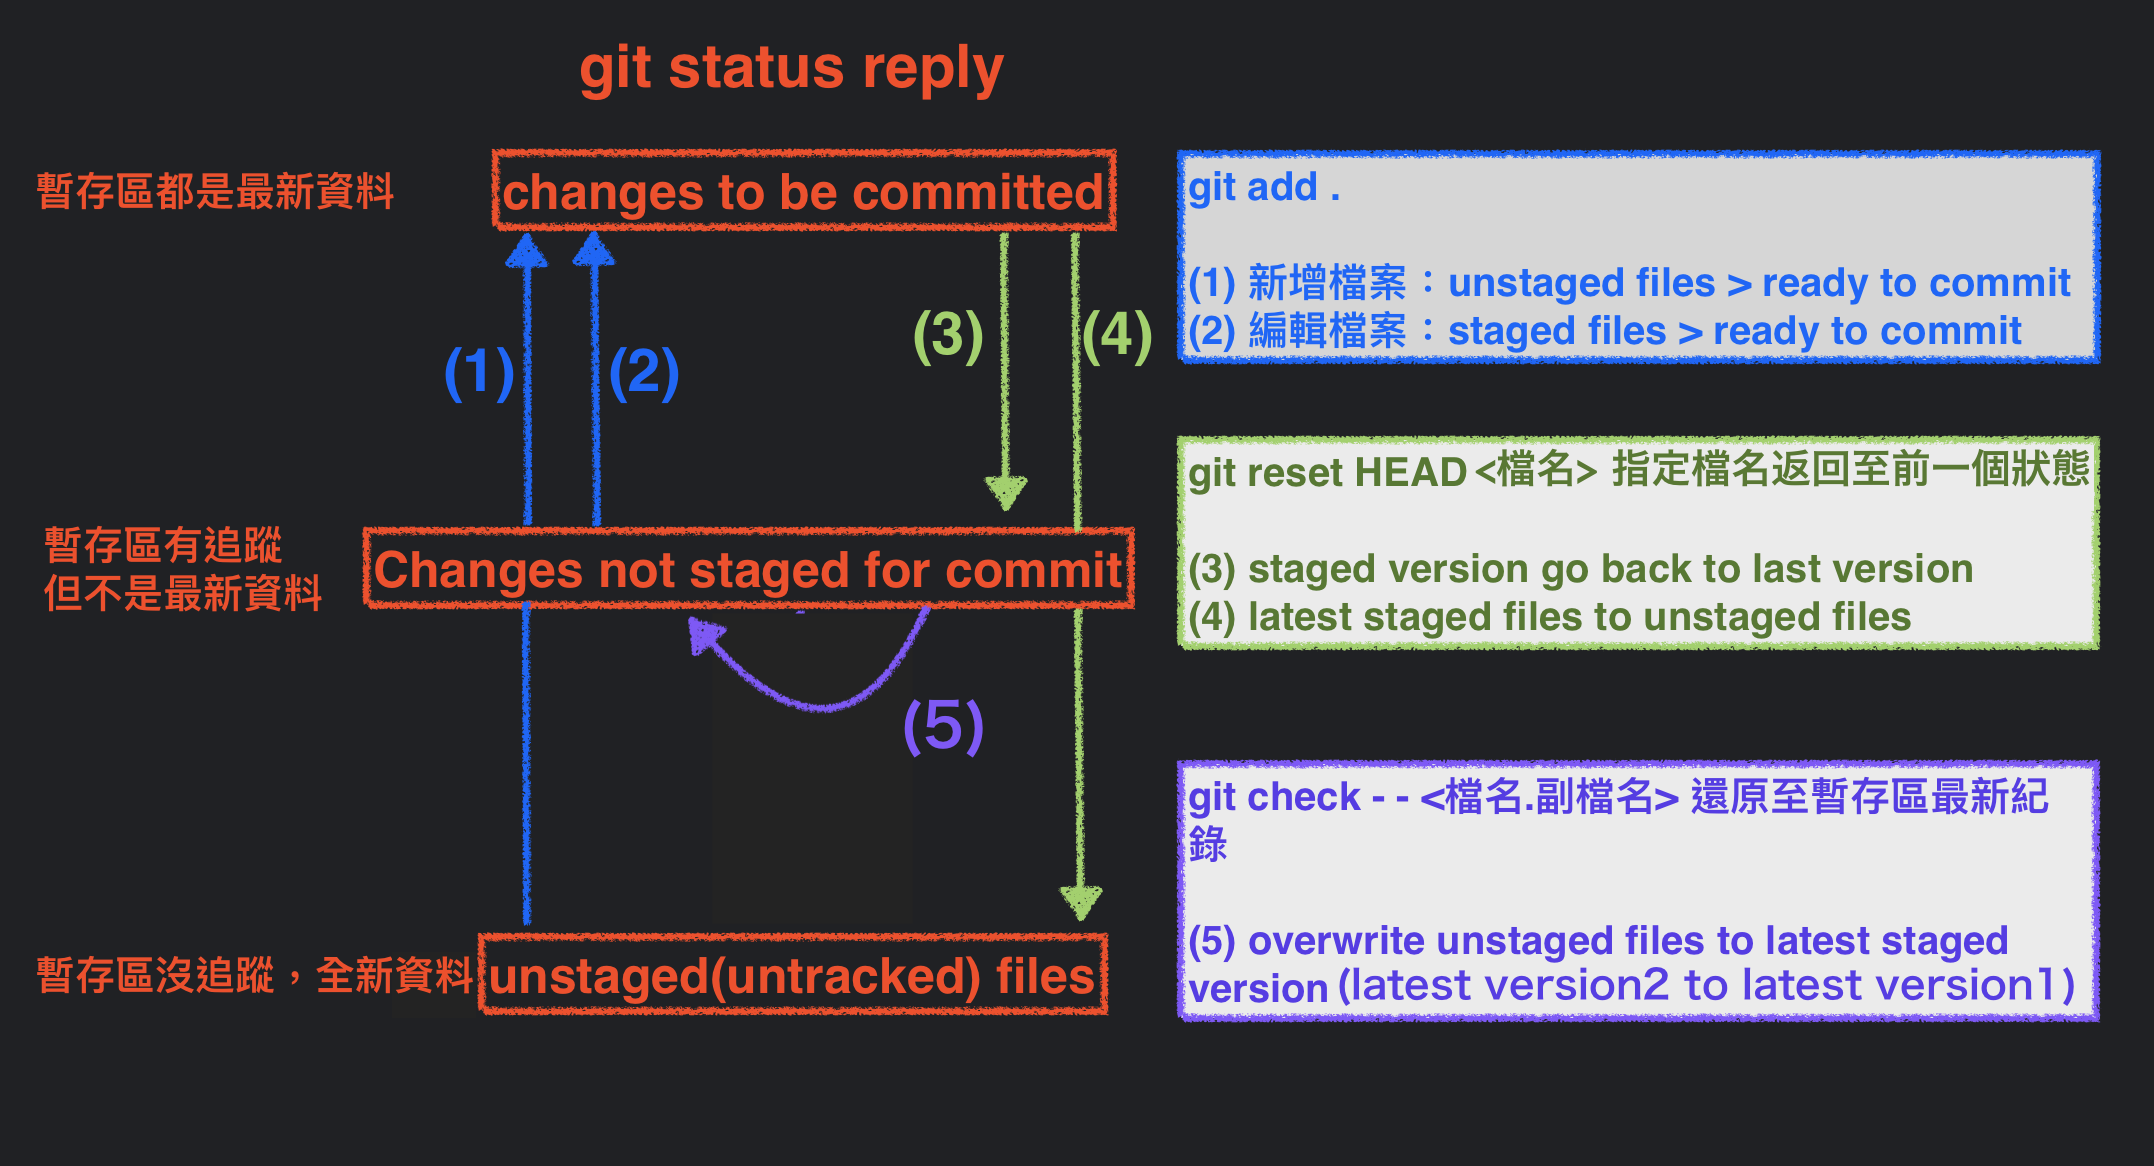
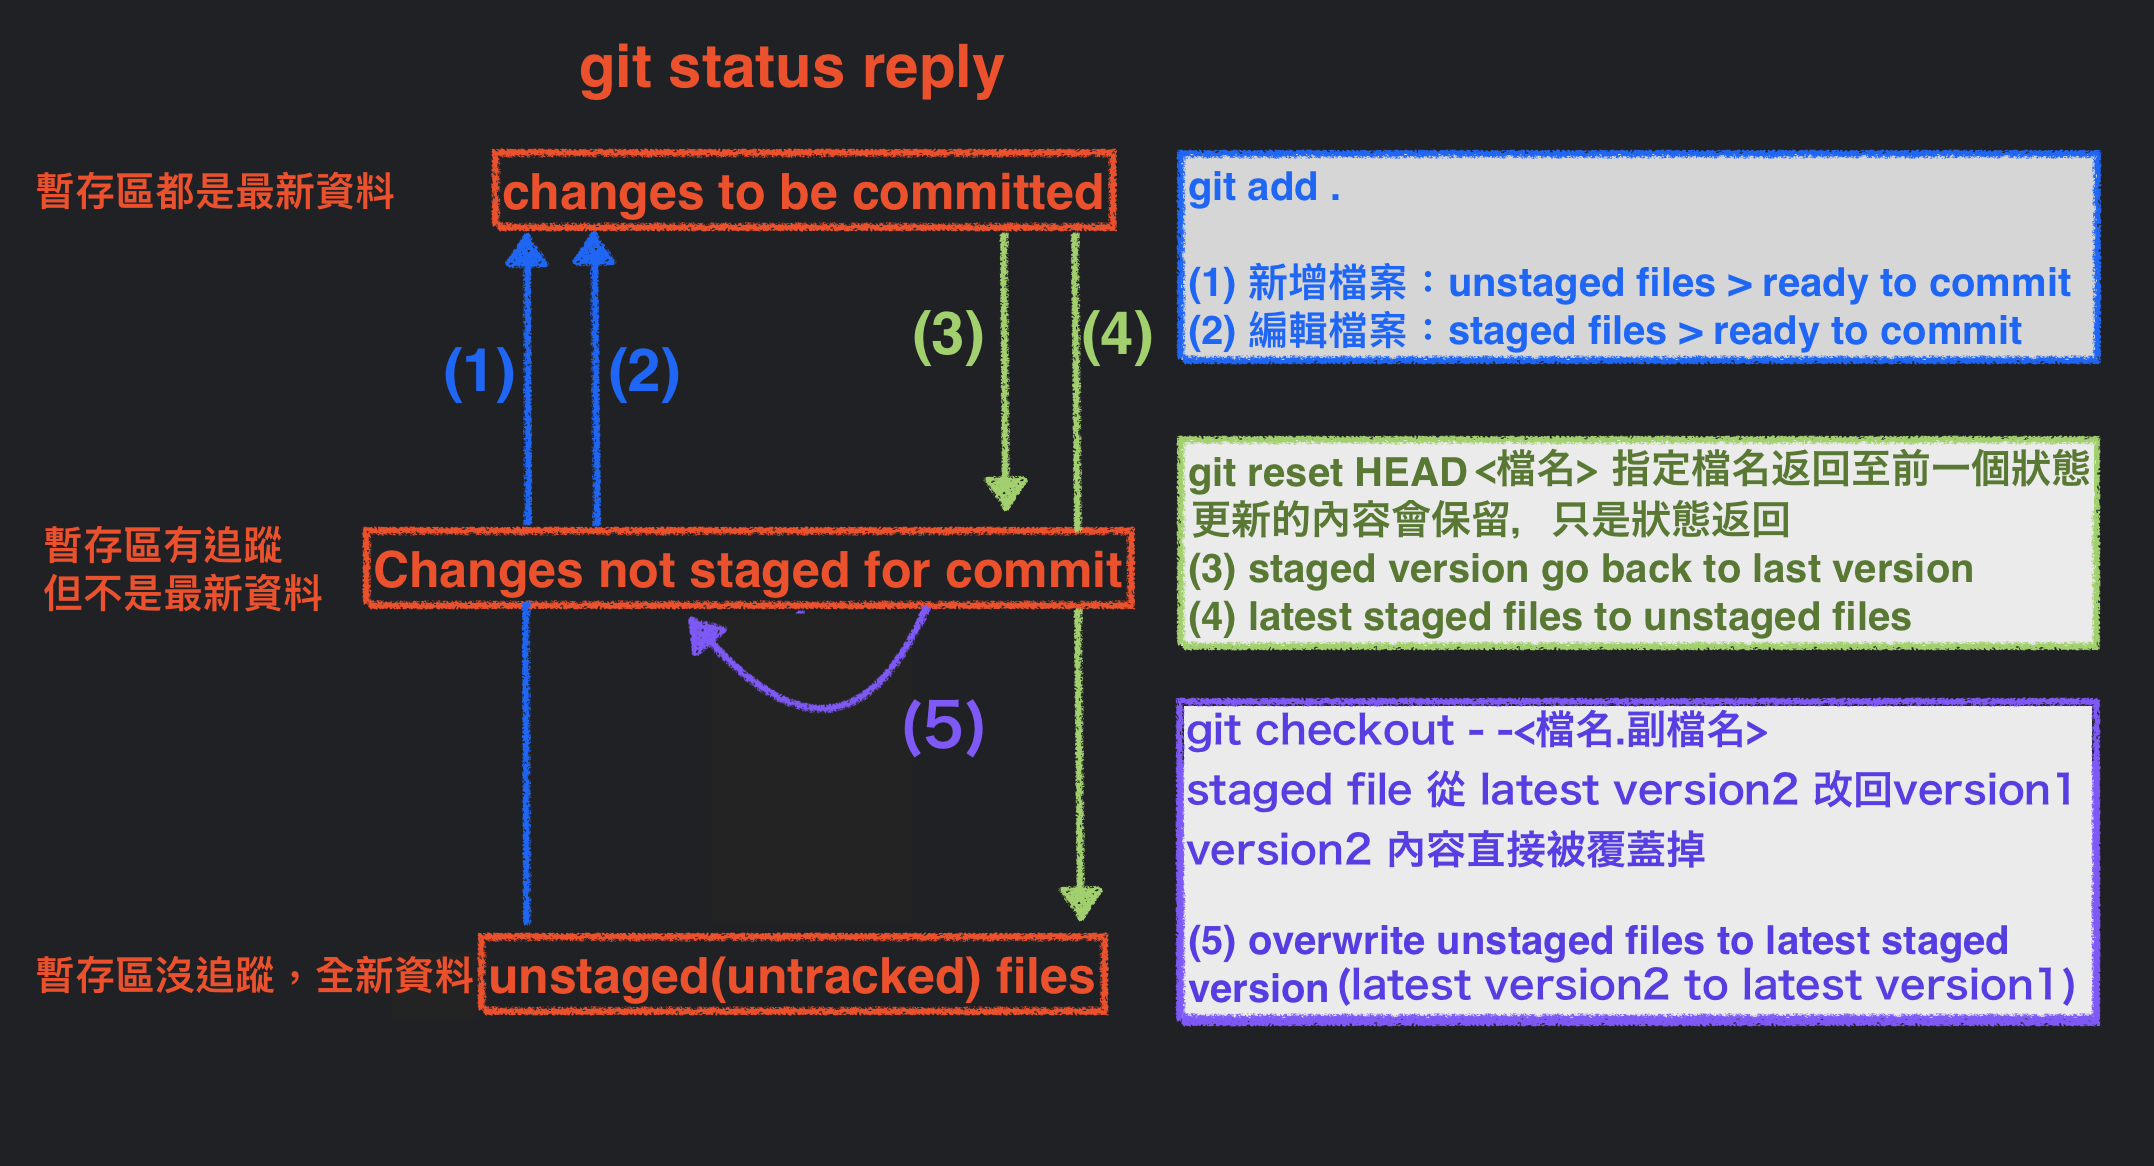
[v0.1.6] - add memo for git add

Changed region(s): [[0.5288, 0.5866, 0.9954, 0.741], [0.5599, 0.8645, 0.9643, 0.8954], [0.5288, 0.4322, 0.8398, 0.4631]]

diff --git a/docs/git/git_problemRecord.md b/docs/git/git_problemRecord.md
@@ -47,6 +47,8 @@ sidebar_position: 3
 
 </details>
 
+- 保留更新內容，狀態返回
+- 不保留更新內容，狀態返回
 
 ---
 
